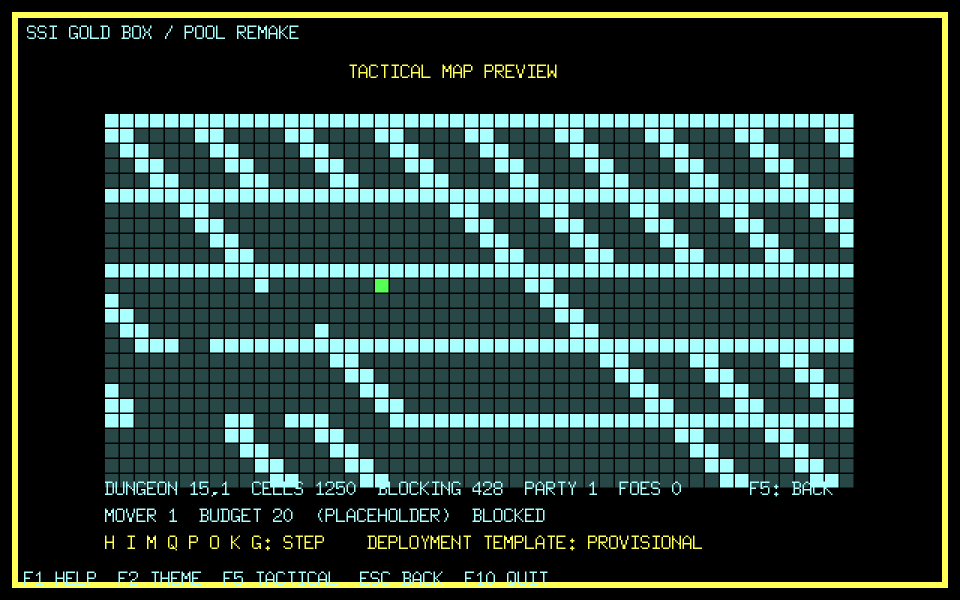
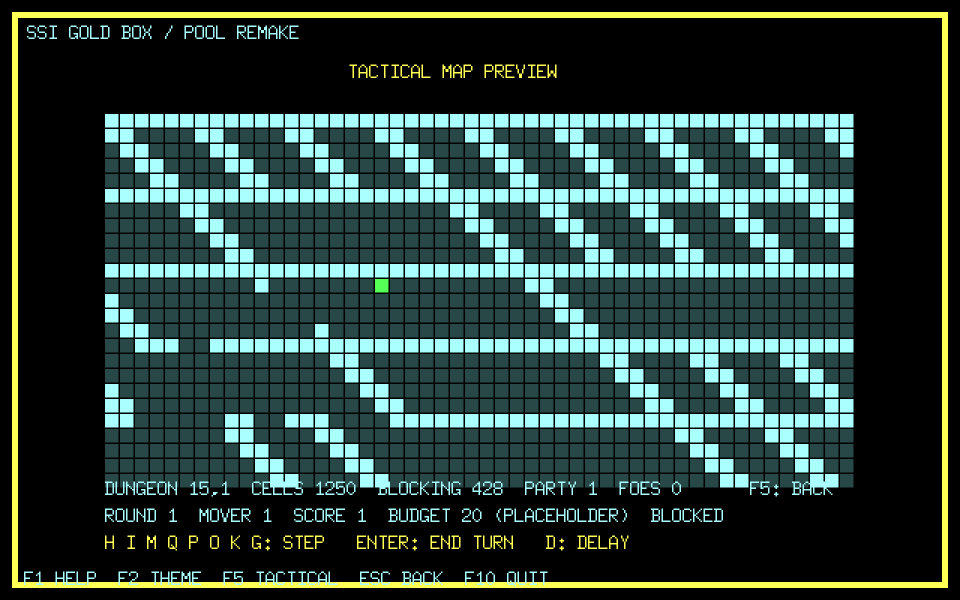
docs: capture the round loop on the tactical screen
畫面上多了回合與先攻分數。擷取腳本現在有三道檢查：F5 必須換畫面、移動鍵
必須改變畫面、結束回合必須改變畫面——任何一段接壞了都會直接失敗，
而不是靜靜產出一張看起來正常的圖。

Changed region(s): [[0.1875, 0.84, 0.75, 0.93], [0.0938, 0.84, 0.1562, 0.87]]

diff --git a/README.md b/README.md
@@ -108,14 +108,18 @@ tools/go.sh run ./cmd/pool-inventory -zip "Pool of Radiance (1988).zip"
 overlay-10 `0138h` 分成開放、牆與門三種，界外一律當牆、只有隊伍那一列的東西向
 例外。綠色是隊伍成員；這條擷取路徑上沒有 staged 怪物，所以敵方是 0。
 
-原版 Move 命令的八個方向鍵（`H I M Q P O K G`）已經接上移動判定。圖中的狀態是
-按了兩次正東再按一次右上斜向之後：預算由 24 扣成 20（兩步正東、每步 2），
-第三步因為右上那格在牆線上而回報 `BLOCKED`。撞到人會走攻擊分支，走出盤面會走
-離開戰鬥的詢問分支。
+原版 Move 命令的八個方向鍵（`H I M Q P O K G`）已經接上移動判定，回合流程也照
+Spec 062 的順序在跑：每回合重設所有人的移動預算、重擲先攻，再反覆「選行動者→
+行動」，選不到人才進下一回合——先攻是每次行動後重選，不是整場排一次順序表。
+`Enter` 結束回合，`D` 是原版的 Delay（分數寫成 1 而非 0，稍後還會被選到）。
+
+圖中的狀態是按了兩次正東再按一次右上斜向之後：預算由 24 扣成 20（兩步正東、
+每步 2），第三步因為右上那格在牆線上而回報 `BLOCKED`。撞到人會走攻擊分支，
+走出盤面會走離開戰鬥的詢問分支。
 
 兩處仍是暫定的，都標在畫面上：部署位置由原版執行期填的陣型樣板決定，那張表不在
-檔案裡（Spec 061）；移動預算在沒有 staged 怪物時用暫定基礎值，因為 remake 的角色
-記錄還沒有移動欄位。回合流程尚未接上。來源提交與雜湊見
+檔案裡（Spec 061）；移動預算與怪物的 DEX 在沒有 staged 怪物時用暫定值，因為
+remake 的角色記錄還沒有移動欄位。來源提交與雜湊見
 [戰術預覽截圖 manifest](docs/audit/remake-tactical-screenshot-manifest.json)。
 
 | Rolf 34-step 導覽的 Tyr 停靠點（正常 Return 路徑） |
